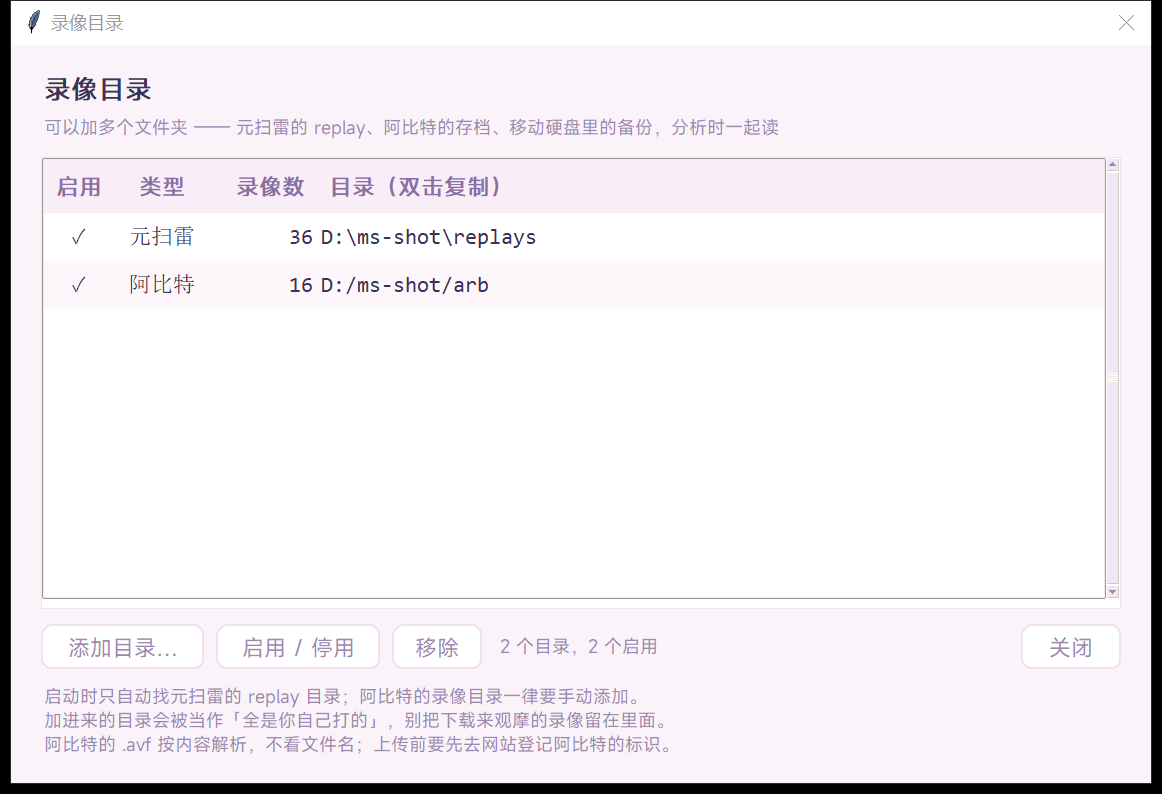
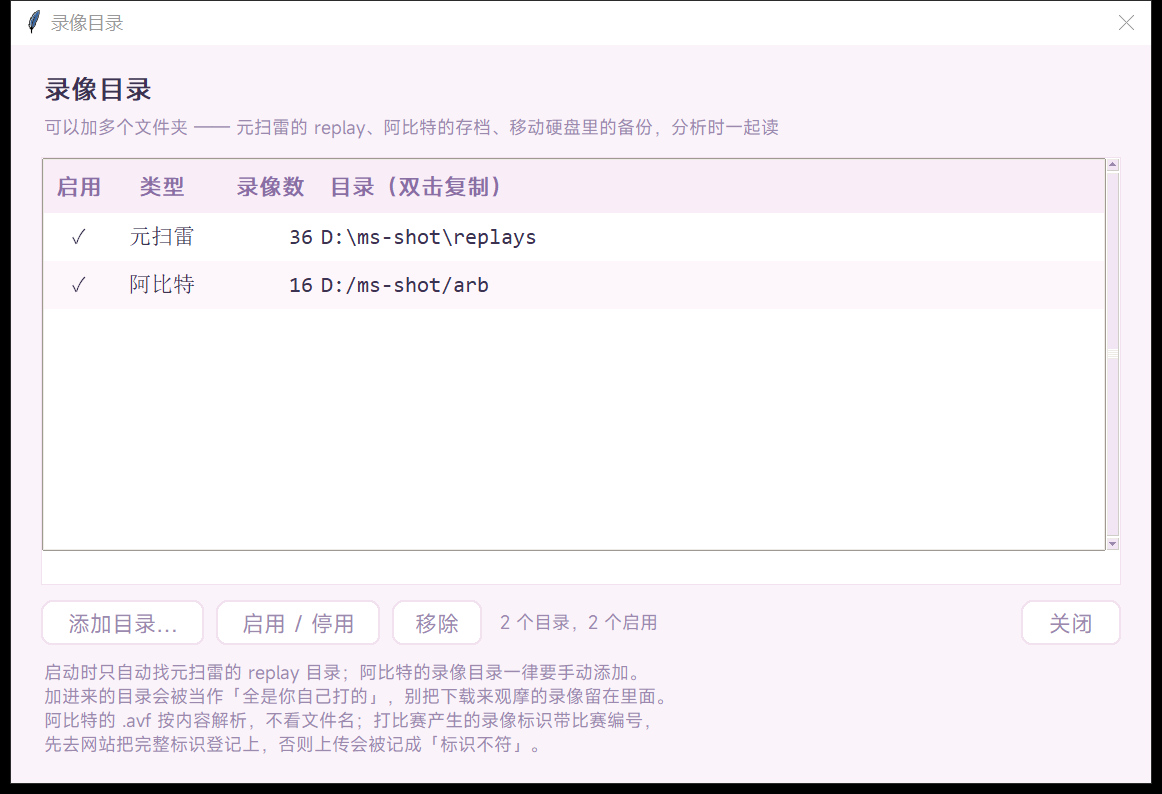
修正标识说明：两个软件同一套规则，G 编号是比赛标识

Changed region(s): [[0.031, 0.7557, 0.5886, 0.9673], [0.8675, 0.665, 0.9604, 0.8463]]

diff --git a/app.py b/app.py
@@ -1076,7 +1076,8 @@ class PathsDialog(tk.Toplevel):
         self.lbl_tip = tk.Label(
             wrap, text="启动时只自动找元扫雷的 replay 目录；阿比特的录像目录一律要手动添加。\n"
                        "加进来的目录会被当作「全是你自己打的」，别把下载来观摩的录像留在里面。\n"
-                       "阿比特的 .avf 按内容解析，不看文件名；上传前要先去网站登记阿比特的标识。",
+                       "阿比特的 .avf 按内容解析，不看文件名；打比赛产生的录像标识带比赛编号，\n"
+                       "先去网站把完整标识登记上，否则上传会被记成「标识不符」。",
             bg=C_BG, fg=C_DIM, font=FONT_SMALL, anchor="w", justify="left",
             wraplength=sc(690))
         self.lbl_tip.pack(fill="x", pady=(sc(8), 0))

diff --git a/README.md b/README.md
@@ -91,10 +91,10 @@
 | 参与 `record.ini` 对账 | 是 | 否（record.ini 是元扫雷写的） |
 | 上传 | 可以 | 上传页「含阿比特录像」勾选后才传 |
 
-> 阿比特录像里的**标识**跟元扫雷不是同一个（元扫雷是 `玩家名(地区)` 这种，
-> 阿比特还会在后面多带一个编号，例如 `玩家名(地区) G00000`）。网站的规则是「只认你登记过的标识」，
-> 所以先把阿比特那个标识登记到账号下，否则上传会被记成 `d`（标识不匹配）、不进榜。
-> 没登记时本程序在上传列表里就会提前标「标识不符」，不会白传。
+> 两个软件的**标识**是同一套规则（`玩家名(地区)`）；打比赛的录像标识后面会多带比赛编号，
+> 例如 `玩家名(地区) G18248` —— 那是比赛标识，不是另一种格式。网站的规则是「只认你登记过的
+> 标识」，哪条录像上传后被记成 `d`（标识不符）、不进榜，就把它那个完整标识（含编号）登记到
+> 账号「标识管理」里再传。没登记时本程序在上传列表里就会提前标「标识不符」，不会白传。
 
 ### 同一局存了多份
 
@@ -416,9 +416,9 @@ Beg_NF_1.06_3BV=5_3BVs=4.71_Anonymous.avf
 所以**文件名只用来兜底**：程序读录像内容拿级别 / 时间 / BV，读不出才退回文件名解析
 （`core.parse_avf_filename`，认不出就跳过并计入「无法解析」）。
 
-阿比特录像里的 `player_identifier` 是另一套写法（如 `PlayerName(Region) G00000`），
-跟元扫雷的 `PlayerName(Region)` 不是一个字符串 —— 上传前记得把阿比特那个标识也登记到账号下，
-否则网站会记成 `d`（标识不匹配）。
+阿比特录像里的 `player_identifier` 写法和元扫雷同一套（`玩家名(地区)`）；个别录像后面
+多带的编号（如 `PlayerName(Region) G00000`）是**比赛标识**（打比赛产生的录像才带），
+不是另一种格式 —— 若上传被记成 `d`（标识不匹配），把带编号的完整标识登记到账号下即可。
 
 ---
 
@@ -437,8 +437,9 @@ Beg_NF_1.06_3BV=5_3BVs=4.71_Anonymous.avf
   玩家名在前、或完全不带 `3BV=` 的命名解析不出来，只能靠录像内容兜底。
 - **扫描缓存不做过期剪枝**：录像被删掉或改名后，缓存里会留下孤儿行（只是占点磁盘，
   不影响结果）。要清就「诊断…」→「清空缓存」。
-- **阿比特上传只做过单条真传**（2026-10-21：1 条 `.avf` 上传成功，站点记为 `d` 标识不匹配，
-  重复上传正确返回「网站已有同一录像」）。批量混传还没在真实账号上跑过。
+- **阿比特上传只做过单条真传**（2026-10-21：1 条 `.avf` 上传成功，站点记为 `d` 标识不匹配
+  —— 那条的标识带比赛编号、账号里没登记；重复上传正确返回「网站已有同一录像」）。
+  批量混传还没在真实账号上跑过。
 
 ---
 

diff --git a/docs/TODO.md b/docs/TODO.md
@@ -39,8 +39,9 @@
   「无法解析」计数里可能出现其实是正常的文件。
 - **扫描目录上限 20000 个子目录**，到顶截断并在状态栏说明；正常 replay 目录不会触发。
 - **扫描缓存不做孤儿行剪枝**：删掉的录像会在 `scan-cache.db` 里留行（不影响结果，只是库慢慢变大）。
-- **站点标识必须先登记**：阿比特录像的 `player_identifier` 与元扫雷不是同一个字符串，
-  没在账号下登记就会上传成功但 `state=d`（标识不匹配、不进榜）。程序只能提前标红，不能代登记。
+- **带比赛编号的标识要先登记**：打比赛产生的录像（元扫雷、阿比特都一样）标识后面会带
+  比赛编号（如 `玩家名(地区) G18248`）。这种完整标识若没在账号「标识管理」里登记，
+  上传会成功但 `state=d`（标识不匹配、不进榜）。程序只能提前标红，不能代登记。
 - **`record.ini` 对账只覆盖元扫雷**：那份文件是元扫雷写的，阿比特的成绩没有第二来源可校准。
 - **「手动添加 = 全是你自己的」是约定，不是校验**：程序只能靠目录边界判断归属，加进来的目录
   里若混着别人打的录像，仍会计入 PB 并进上传列表。没有做「按 `player_identifier` 白名单过滤」
